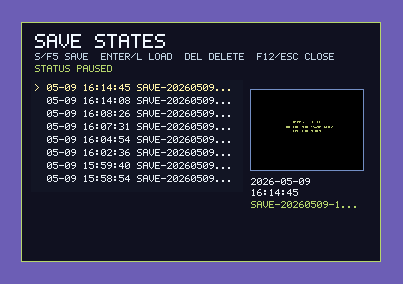
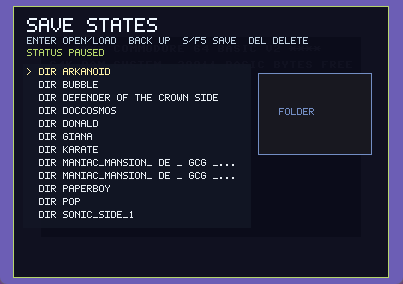
Update README screenshot gallery

diff --git a/README.md b/README.md
@@ -14,9 +14,13 @@ This project is not intended to replace the excellent VICE emulator in any way. 
 
 ## Screenshots
 
-| C64 boot screen | Settings overlay | Save/load overlay | Network overlay |
+| C64 boot screen | Main menu | Settings overlay | Controller mapping |
 | --- | --- | --- | --- |
-| <img src="docs/screenshots/c64-boot-screen.png" alt="C64 boot screen" width="220"> | <img src="docs/screenshots/settings-menu.png" alt="Settings overlay" width="220"> | <img src="docs/screenshots/save-load-menu.png" alt="Save/load overlay" width="220"> | <img src="docs/screenshots/network-menu.png" alt="Network multiplayer overlay" width="220"> |
+| <img src="docs/screenshots/c64-boot-screen.png" alt="C64 boot screen" width="220"> | <img src="docs/screenshots/main-menu.png" alt="Main menu overlay" width="220"> | <img src="docs/screenshots/settings-menu.png" alt="Settings overlay" width="220"> | <img src="docs/screenshots/controller-mapping-menu.png" alt="Controller mapping overlay" width="220"> |
+
+| Save/load overlay | Network overlay | Media browser |
+| --- | --- | --- |
+| <img src="docs/screenshots/save-load-menu.png" alt="Save/load overlay" width="260"> | <img src="docs/screenshots/network-menu.png" alt="Network multiplayer overlay" width="260"> | <img src="docs/screenshots/media-browser-menu.png" alt="Media browser overlay" width="260"> |
 
 | Giana Sisters: intro | Giana Sisters: level 1 | Giana Sisters: end boss fight |
 | --- | --- | --- |
@@ -29,6 +33,19 @@ This project is not intended to replace the excellent VICE emulator in any way. 
 | Zak McKracken: apartment | Zak McKracken: bakery | Zak McKracken: airplane |
 | --- | --- | --- |
 | <img src="docs/screenshots/zak-mckracken-1.png" alt="Zak McKracken apartment" width="260"> | <img src="docs/screenshots/zak-mckracken-2.png" alt="Zak McKracken bakery" width="260"> | <img src="docs/screenshots/zak-mckracken-3.png" alt="Zak McKracken airplane" width="260"> |
+
+| Sonic: title screen | Sonic: Green Hill | Arkanoid: title screen |
+| --- | --- | --- |
+| <img src="docs/screenshots/sonic-startscreen.png" alt="Sonic the Hedgehog C64 title screen" width="260"> | <img src="docs/screenshots/sonic-game-03.png" alt="Sonic the Hedgehog C64 in-game scene" width="260"> | <img src="docs/screenshots/arkanoid-startscreen.png" alt="Arkanoid title screen" width="260"> |
+
+| Bubble Bobble: title screen | Bubble Bobble: in-game | Doc Cosmos |
+| --- | --- | --- |
+| <img src="docs/screenshots/bubble-bobble-startscreen.png" alt="Bubble Bobble title screen" width="260"> | <img src="docs/screenshots/bubble-bobble-game-01.png" alt="Bubble Bobble in-game scene" width="260"> | <img src="docs/screenshots/doc-cosmos-game-01.png" alt="Doc Cosmos in-game scene" width="260"> |
+
+| Prince of Persia: cutscene | Prince of Persia: dungeon | Prince of Persia: palace | Prince of Persia: level 3 |
+| --- | --- | --- | --- |
+| <img src="docs/screenshots/pop-cutscene-01.png" alt="Prince of Persia cutscene" width="220"> | <img src="docs/screenshots/pop-game-01.png" alt="Prince of Persia dungeon scene" width="220"> | <img src="docs/screenshots/pop-game-03.png" alt="Prince of Persia palace scene" width="220"> | <img src="docs/screenshots/pop-game-02.png" alt="Prince of Persia level 3 scene" width="220"> |
+
 
 ## Current Features
 
@@ -61,6 +78,7 @@ This project is not intended to replace the excellent VICE emulator in any way. 
 | Drag `.prg` / `.d64` / `.crt` onto the window | Load PRG directly, mount D64 into the currently selected target drive, or insert an EasyFlash cartridge. |
 | Configured gamepad directions/buttons | C64 joystick direction/fire for the selected joystick port. |
 | Configured gamepad menu buttons | Open/navigate emulator menus, activate entries, go back, or open savestates. |
+| `Alt` + arrow keys | Send the C64 cursor keys without changing input modes. |
 | `S` / `F5` in savestate menu | Create a new savestate. |
 | `Enter` / `L` in savestate menu | Load the selected savestate and close the menu. |
 | `Del` in savestate menu | Ask for confirmation and then delete the selected savestate. |
@@ -144,6 +162,8 @@ The Windows installer does not ship or install the relay server. The relay is in
 
 The `F10` overview contains `SETTINGS`, `NETWORK`, `MEDIA`, and `RESET`. The `MEDIA` row shows the currently mounted disk or media next to the entry. `Esc` from a submenu returns to this overview; `Esc` from the overview closes the emulator menu.
 
+<img src="docs/screenshots/main-menu.png" alt="Main menu overlay" width="403">
+
 Top-level entries:
 
 | Entry | Action |
@@ -192,7 +212,13 @@ Menu entries:
 | `REU` | `OFF` / `ON` | Enables or disables the emulated RAM Expansion Unit at I/O2 `$DF00-$DFFF`. |
 | `REU SIZE` | `128KB` to `16MB` | Selects the REU capacity. Supported sizes are 128 KB, 256 KB, 512 KB, 1 MB, 2 MB, 4 MB, 8 MB, and 16 MB. |
 
+The controller mapping submenu opened from `GAMEPAD` shows all joystick and menu actions. Each action can have multiple button, axis, or hat bindings.
+
+<img src="docs/screenshots/controller-mapping-menu.png" alt="Controller mapping overlay" width="403">
+
 The `MEDIA` browser opened from the F10 overview has its own controls:
+
+<img src="docs/screenshots/media-browser-menu.png" alt="Media browser overlay" width="403">
 
 | Key | Action |
 | --- | --- |